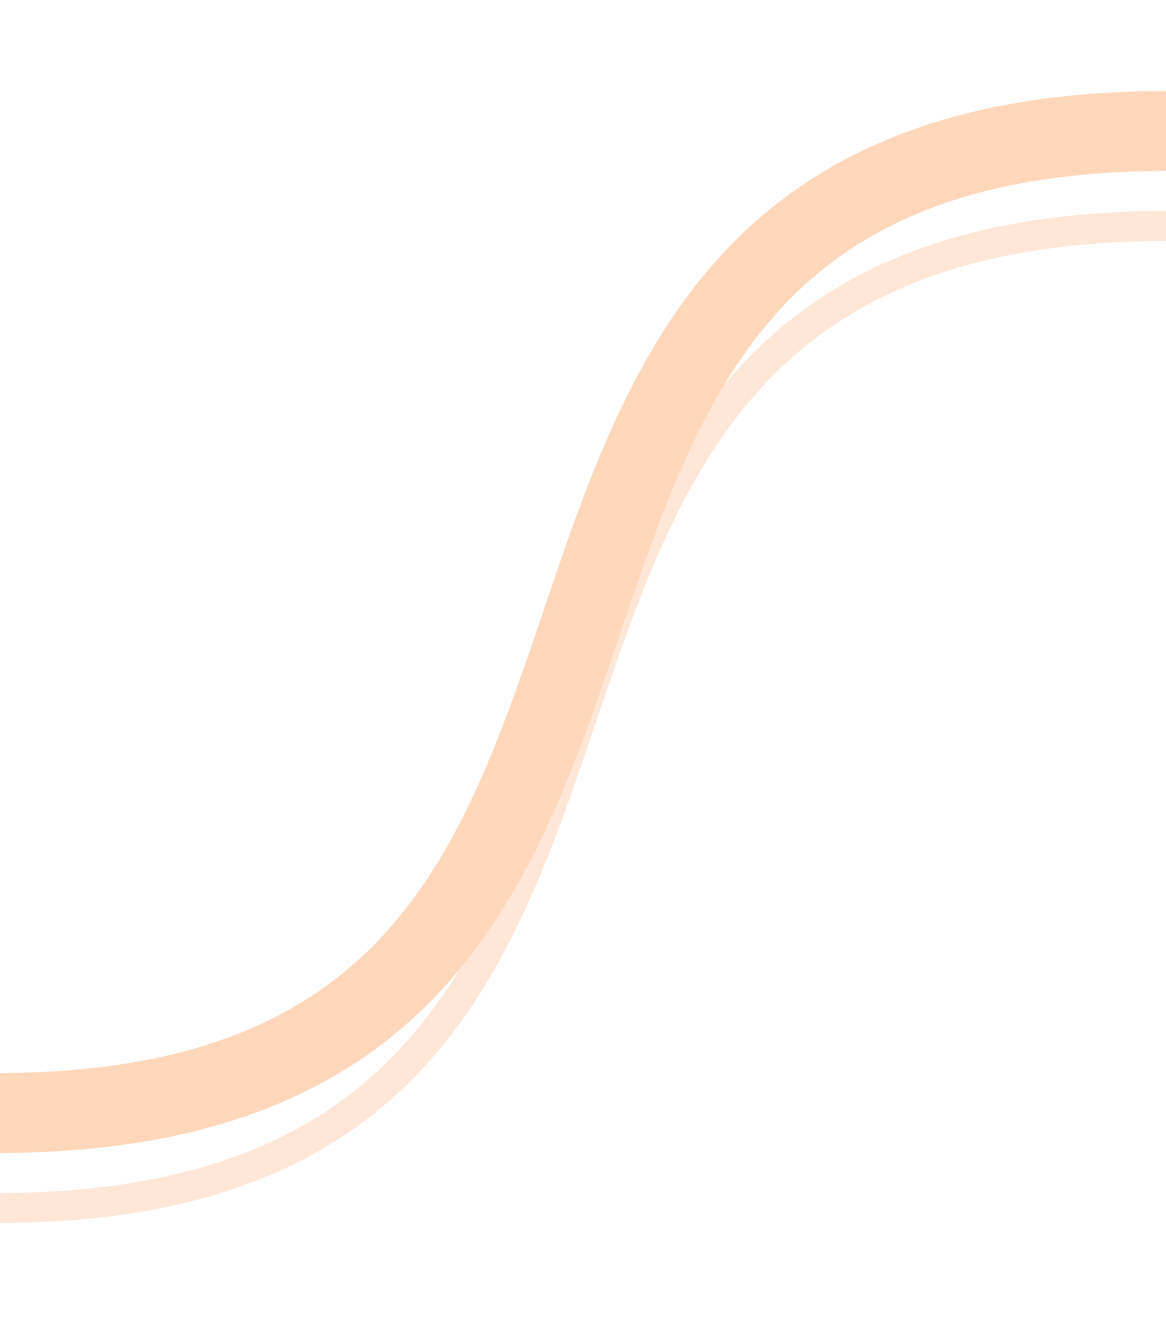
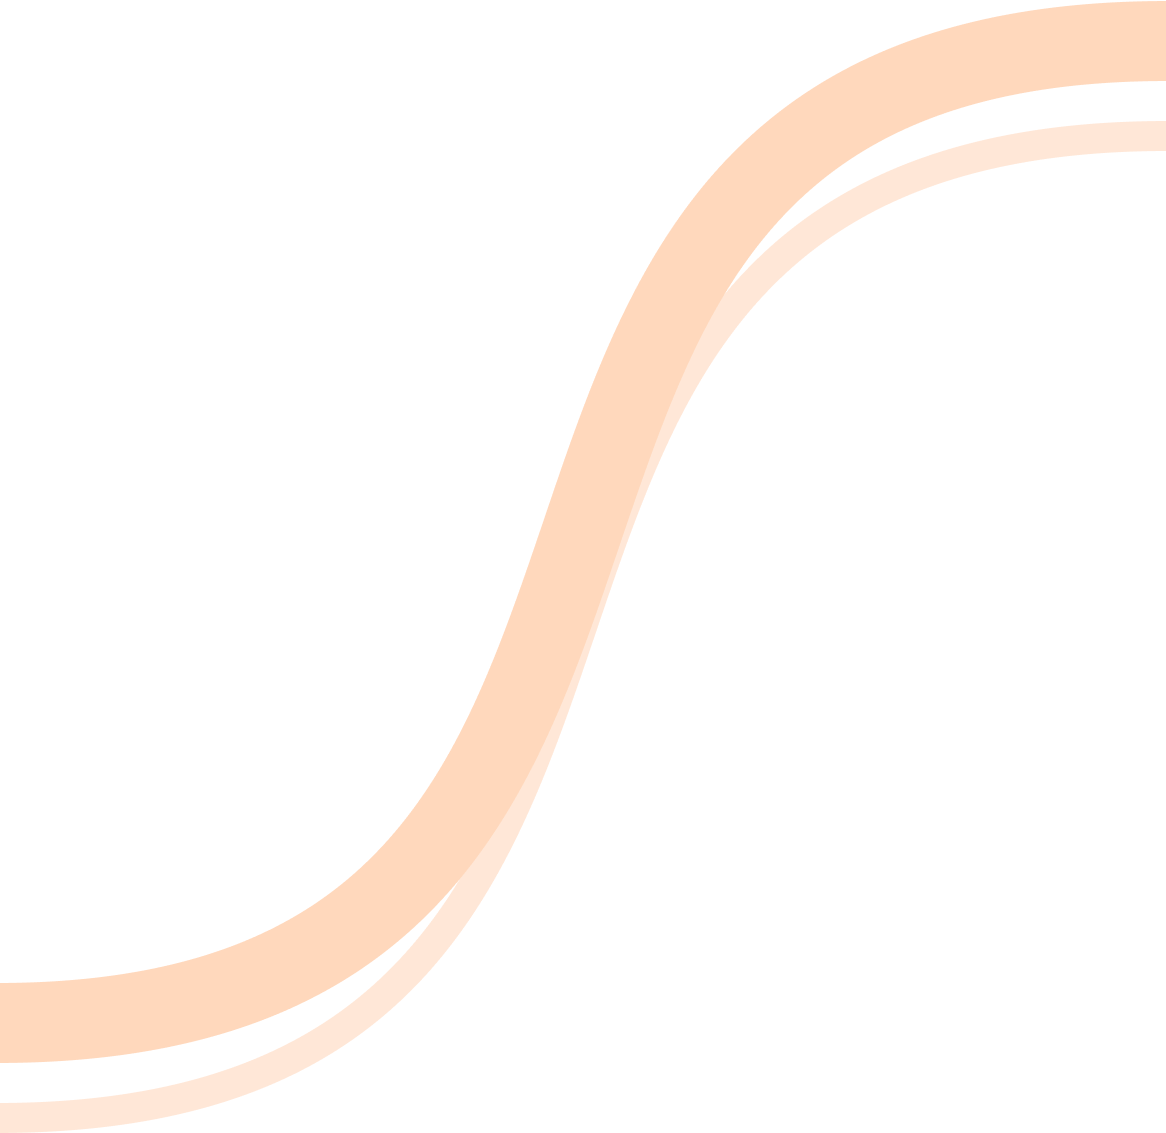
Refactor Welcome component: removed platform detection and adjusted wave positioning. Updated theme image assets for light and dark modes.

diff --git a/src/pages/Welcome.tsx b/src/pages/Welcome.tsx
@@ -1,5 +1,5 @@
 import { useEffect, useMemo, useState } from 'react';
-import { getTelegramTheme, getTelegramWebApp, getTelegramPlatform } from '../utils/telegram';
+import { getTelegramTheme, getTelegramWebApp } from '../utils/telegram';
 
 function WelcomeComponent() {
   const [theme, setTheme] = useState<'light' | 'dark'>(() => getTelegramTheme());
@@ -32,33 +32,12 @@ function WelcomeComponent() {
 
   const wavesSrc = useMemo(() => (theme === 'dark' ? '/lines_dark.png' : '/lines_light.png'), [theme]);
 
-  // In fullscreen (expanded), place waves directly under Telegram navigation controls.
-  // We use safe-area inset top plus a conservative nav height depending on platform.
-  const platform = getTelegramPlatform();
-  const navHeightPx = useMemo(() => {
-    if (!isExpanded) return 0;
-    switch (platform) {
-      case 'ios':
-        return 52; // iOS top bar approx height under WebView
-      case 'android':
-        return 48; // Android top bar approx height
-      case 'macos':
-      case 'tdesktop':
-      default:
-        return 44; // Desktop/unknown
-    }
-  }, [platform, isExpanded]);
-
-  const topOffset = isExpanded
-    ? `calc(var(--tg-safe-area-inset-top, 0px) + ${navHeightPx}px)`
-    : '0px';
-
   return (
     <div style={{ minHeight: '100vh' }}>
       <div
         style={{
           position: 'fixed',
-          top: topOffset,
+          top: 0,
           left: 0,
           right: 0,
           zIndex: 1,

diff --git a/src/utils/telegram.ts b/src/utils/telegram.ts
@@ -22,16 +22,5 @@ export function getTelegramTheme(): TelegramTheme {
   return 'light';
 }
 
-export function getTelegramPlatform(): 'ios' | 'android' | 'macos' | 'tdesktop' | 'unrecognized' {
-  const webApp = getTelegramWebApp();
-  const platform = (webApp?.platform as string | undefined)?.toLowerCase();
-  if (!platform) return 'unrecognized';
-  if (platform.includes('ios')) return 'ios';
-  if (platform.includes('android')) return 'android';
-  if (platform.includes('macos')) return 'macos';
-  if (platform.includes('tdesktop') || platform.includes('desktop')) return 'tdesktop';
-  return 'unrecognized';
-}
-
 
 
